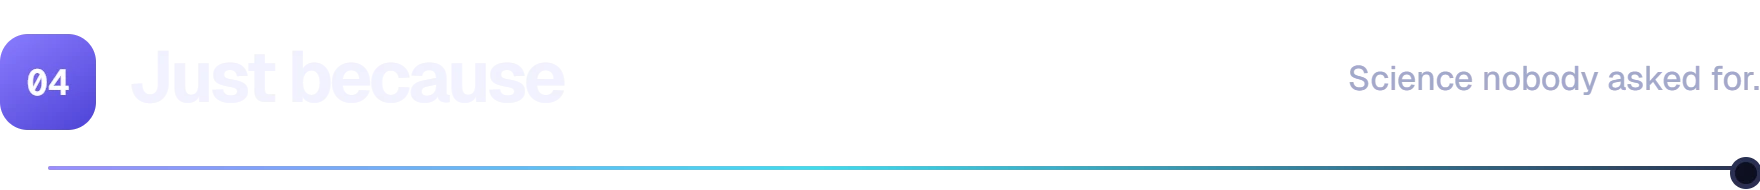
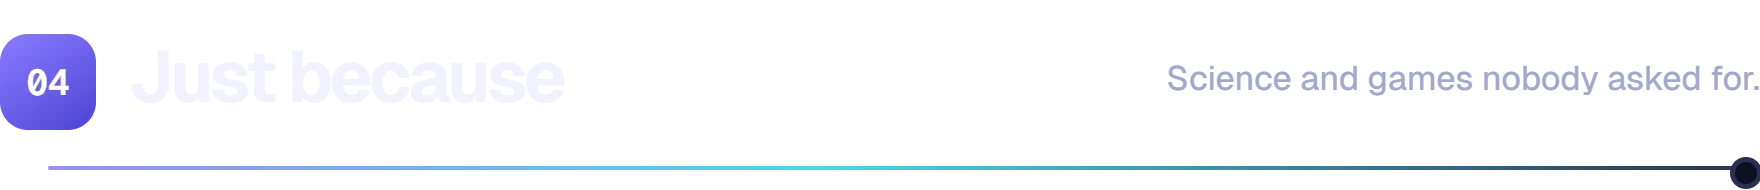
Add Whiskercam to the profile page (#4)
A wide card under "Just because", next to ai-fruit-fly, with the game's
three upright frames on the right. A wide section can now hold more than
one card.

Changed region(s): [[0.6562, 0.3421, 0.8438, 0.5]]

diff --git a/tools/tiles.html b/tools/tiles.html
@@ -50,6 +50,11 @@
   .wide h3 { margin: 0; font-size: 92px; letter-spacing: -.045em; line-height: 1; font-weight: 650; }
   .wide p { margin: 26px 0 0; font-size: 38px; line-height: 1.28; color: #cdd0ee; }
   .wide small { display: block; margin-top: 22px; font-size: 24px; color: #9095bb; }
+  /* Upright phone frames: the picture keeps its shape on the right, the text gets the dark left. */
+  .wide.side { background: #080916; }
+  .wide.side img { left: auto; width: auto; }
+  .wide.side .shade { background: linear-gradient(90deg, #080916 0%, #080916 37.6%, rgba(8,9,22,0) 42%); }
+  .wide.side .text { width: 590px; }
 
   /* Section title: a wire with a node on it, like a step in a flow. */
   .section { width: 1760px; height: 190px; position: relative; }
@@ -197,7 +202,7 @@ window.render = async s => {
     stage.innerHTML = `<div class="${t} section"><div class="node">${s.num}</div><h2>${esc(s.title)}</h2><div class="say">${esc(s.line)}</div><div class="wire"></div></div>`;
   } else if (s.kind === 'wide') {
     const p = s.p;
-    stage.innerHTML = `<div class="${t} wide"><img src="../assets/shots/${p.shot}" style="object-position:${p.pos}"><div class="shade"></div><div class="text"><h3>${esc(p.name)}</h3><p>${esc(p.line)}</p><small>${esc(p.note||'')}</small></div></div>`;
+    stage.innerHTML = `<div class="${t} wide${p.side ? ' side' : ''}"><img src="../assets/shots/${p.shot}" style="object-position:${p.pos||'50% 50%'}"><div class="shade"></div><div class="text"><h3>${esc(p.name)}</h3><p>${esc(p.line)}</p><small>${esc(p.note||'')}</small></div></div>`;
   } else {
     const p = s.p;
     const fit = s.kind === 'tall' && p.name.length > 14 ? ' style="font-size:64px"' : '';

diff --git a/README.md b/README.md
@@ -39,9 +39,11 @@
 
 <br>
 
-<picture><source media="(prefers-color-scheme: dark)" srcset="assets/tiles/s-fun-dark.webp"><img src="assets/tiles/s-fun-light.webp" alt="Just because. Science nobody asked for." width="100%"></picture>
+<picture><source media="(prefers-color-scheme: dark)" srcset="assets/tiles/s-fun-dark.webp"><img src="assets/tiles/s-fun-light.webp" alt="Just because. Science and games nobody asked for." width="100%"></picture>
 
 <a href="https://github.com/flujo-app/ai-fruit-fly"><picture><source media="(prefers-color-scheme: dark)" srcset="assets/tiles/fruit-fly-dark.webp"><img src="assets/tiles/fruit-fly-light.webp" alt="ai-fruit-fly: A real fruit fly brain, all 138,639 neurons, running in your browser. Then 1,024 flies learned to code a rotating döner." width="100%"></picture></a>
+
+<a href="https://github.com/flujo-app/whiskercam"><picture><source media="(prefers-color-scheme: dark)" srcset="assets/tiles/whiskercam-dark.webp"><img src="assets/tiles/whiskercam-light.webp" alt="Whiskercam: A day on the estate, filmed from under a cat's chin. Chase your brother, climb the trees, and share the clip." width="100%"></picture></a>
 
 <br>
 
